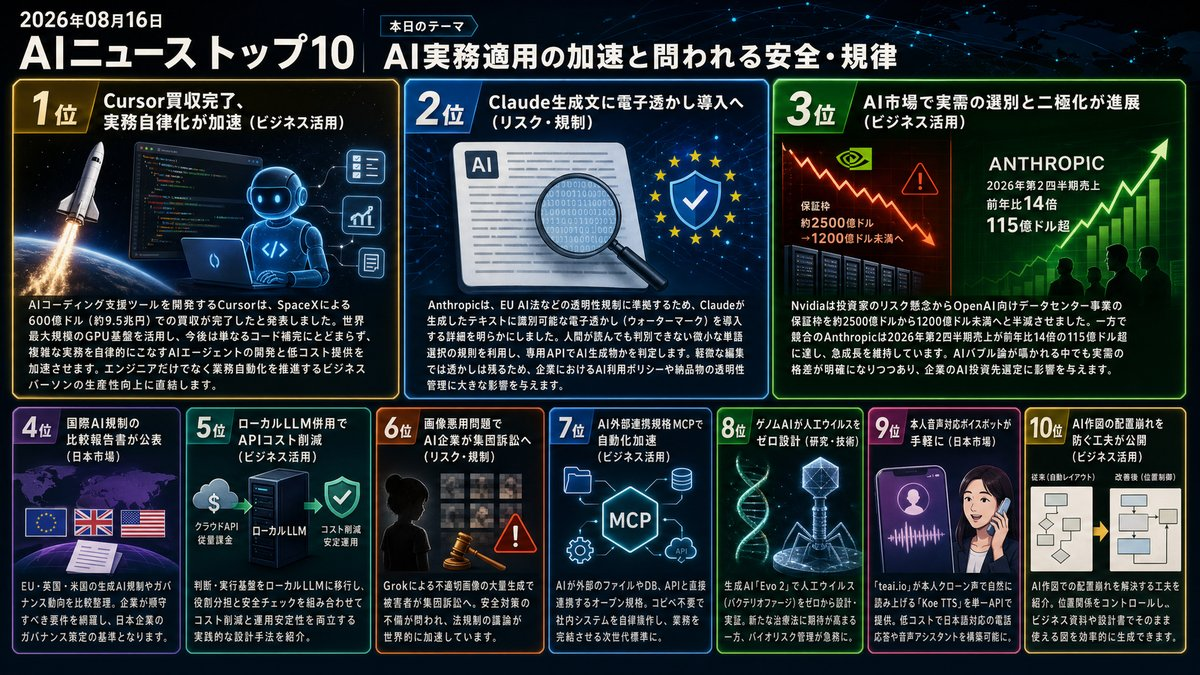
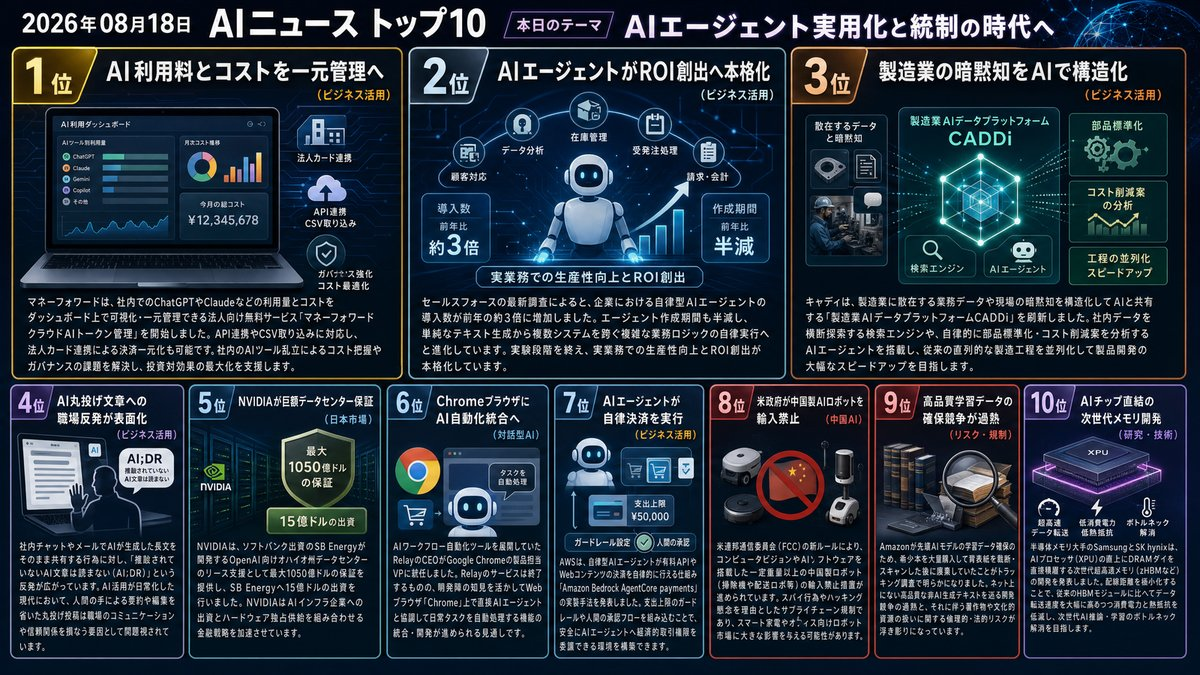
Morning Brief delivered [skip ci]

diff --git a/docs/index.html b/docs/index.html
@@ -12,16 +12,16 @@
     <!-- OGP_START -->
 <meta property="og:type" content="website">
 <meta property="og:site_name" content="AI ニュース TOP10">
-<meta property="og:title" content="AIの現場実装と安全運用の具体化 | AI ニュース TOP10">
-<meta property="og:description" content="業務定着へ向け運用の安全性と費用対効果の精査が進む 本日のトップ: ChatGPTがPC操作を記憶し定型業務を自動化">
+<meta property="og:title" content="AIエージェント実用化と統制の時代へ | AI ニュース TOP10">
+<meta property="og:description" content="業務定着が進む今、コスト管理とコミュニケーションの質が問われます。 本日のトップ: AI利用料とコストを一元管理へ">
 <meta property="og:image" content="https://tadfuji.github.io/ai-news-bot/ogp_latest.jpg">
 <meta property="og:url" content="https://tadfuji.github.io/ai-news-bot/">
 <meta name="twitter:card" content="summary_large_image">
-<meta name="twitter:title" content="AIの現場実装と安全運用の具体化 | AI ニュース TOP10">
-<meta name="twitter:description" content="業務定着へ向け運用の安全性と費用対効果の精査が進む">
+<meta name="twitter:title" content="AIエージェント実用化と統制の時代へ | AI ニュース TOP10">
+<meta name="twitter:description" content="業務定着が進む今、コスト管理とコミュニケーションの質が問われます。">
 <meta name="twitter:image" content="https://tadfuji.github.io/ai-news-bot/ogp_latest.jpg">
-<meta name="description" content="業務定着へ向け運用の安全性と費用対効果の精査が進む 世界のAIニュースを毎朝日本語で厳選してお届け。">
-<script type="application/ld+json">{"@context": "https://schema.org", "@type": "ItemList", "name": "AI ニュース TOP10 — AIの現場実装と安全運用の具体化", "itemListElement": [{"@type": "ListItem", "position": 1, "name": "ChatGPT Mac版に操作履歴を追跡・自動化する「Computer History」機能が登場", "url": "https://www.theverge.com/ai-artificial-intelligence/980742/chatgpts-computer-history-tracks-your-clicks-and-keystrokes"}, {"@type": "ListItem", "position": 2, "name": "決済大手Stripe、複数AIモデル統合基盤「OpenRouter」を70億ドル超で買収へ", "url": "https://techcrunch.com/2026/08/16/stripe-will-reportedly-acquire-ai-gateway-startup-openrouter-for-7b/"}, {"@type": "ListItem", "position": 3, "name": "チャット常駐AIエージェントで他社情報漏洩を防ぐマルチテナント分離設計", "url": "https://zenn.dev/hach/articles/chat-agent-multi-tenant-isolation-design"}, {"@type": "ListItem", "position": 4, "name": "オープンソース「GenOffice」とRAGを活用した社内資料下書き自動生成の実践", "url": "https://zenn.dev/bathtimefish/articles/eb089fbe8434b0"}, {"@type": "ListItem", "position": 5, "name": "AI記事自動公開の落とし穴：もっともらしい捏造を防ぐ「機械検査＋人の目」設計", "url": "https://zenn.dev/my_agent_works/articles/ai-article-pipeline-human-gate"}, {"@type": "ListItem", "position": 6, "name": "Anthropicの電子透かし導入直後に除去OSSが登場：AI識別技術を巡る攻防", "url": "https://www.techno-edge.net/article/2026/08/17/5398.html"}, {"@type": "ListItem", "position": 7, "name": "OpenAIが安全性検証チーム「Preparedness」を解散、IPO前の組織再編", "url": "https://www.theverge.com/ai-artificial-intelligence/980817/openai-disbands-preparedness-team"}, {"@type": "ListItem", "position": 8, "name": "Claude、Codex、Qwenはどう発音する？ビジネスで役立つAI用語読み方ガイド", "url": "https://atmarkit.itmedia.co.jp/ait/articles/2608/17/news020.html"}, {"@type": "ListItem", "position": 9, "name": "日々の断片的なメモを体系化する「自分専用エージェント秘書」の構築法", "url": "https://zenn.dev/nhandsome/articles/my-agent-assistant-03-knowledge-graph"}, {"@type": "ListItem", "position": 10, "name": "日本語OCR 7種実測比較：大規模モデルが必ずしも高精度とは限らない実態", "url": "https://zenn.dev/ocrjp/articles/c8ccf7c1c4ee82"}]}</script>
+<meta name="description" content="業務定着が進む今、コスト管理とコミュニケーションの質が問われます。 世界のAIニュースを毎朝日本語で厳選してお届け。">
+<script type="application/ld+json">{"@context": "https://schema.org", "@type": "ItemList", "name": "AI ニュース TOP10 — AIエージェント実用化と統制の時代へ", "itemListElement": [{"@type": "ListItem", "position": 1, "name": "マネーフォワード、ChatGPTやClaudeの利用量とコストを一元管理する無料サービスを提供開始", "url": "https://www.itmedia.co.jp/aiplus/article/2608/18/2000000571/"}, {"@type": "ListItem", "position": 2, "name": "企業のAIエージェント導入数が1年で3倍に急増、具体的なROI創出フェーズへ移行", "url": "https://www.zdnet.com/article/ai-agent-adoption-tripled-measurable-roi/"}, {"@type": "ListItem", "position": 3, "name": "キャディ、製造業の暗黙知を構造化し工程を並列化する次世代AIプラットフォームを発表", "url": "https://monoist.itmedia.co.jp/mn/articles/2608/18/news045.html"}, {"@type": "ListItem", "position": 4, "name": "「AI;DR（AI生成だから読まない）」職場におけるAI丸投げ文章への反発が顕在化", "url": "https://www.rickmanelius.com/p/aidr-ai-didnt-read"}, {"@type": "ListItem", "position": 5, "name": "NVIDIA、ソフトバンク出資のOpenAI向け米データセンターに最大1050億ドルの巨額保証", "url": "https://www.scmp.com/tech/big-tech/article/3364341/nvidia-provide-us105-billion-guarantee-openais-ohio-data-centre?utm_source=rss_feed"}, {"@type": "ListItem", "position": 6, "name": "AI自動化スタートアップRelay創業者がGoogle Chromeチームへ、ブラウザのAI統合を加速", "url": "https://techcrunch.com/2026/08/17/ai-automation-startup-relay-shuts-down-staff-joins-googles-chrome-team/"}, {"@type": "ListItem", "position": 7, "name": "AWS、AIエージェントに自動決済機能を持たせるAmazon Bedrock新機能を解説", "url": "https://aws.amazon.com/blogs/machine-learning/build-openclaw-agents-that-transact-with-amazon-bedrock-agentcore-payments/"}, {"@type": "ListItem", "position": 8, "name": "米トランプ政権、カメラやAI搭載の中国製ロボット掃除機などを輸入禁止へ", "url": "https://www.gizmodo.jp/article/trumps-robot-vacuum-ban/"}, {"@type": "ListItem", "position": 9, "name": "AmazonがAI訓練のため希少本を大量購入し裁断スキャンして廃棄していた実態が判明", "url": "https://arstechnica.com/tech-policy/2026/08/hidden-airtag-reveals-amazon-is-trashing-rare-books-to-train-ai/"}, {"@type": "ListItem", "position": 10, "name": "SamsungとSK hynix、AIチップ直結の次世代超高速積層メモリ技術を開発中", "url": "https://pc.watch.impress.co.jp/docs/column/semicon/2133231.html"}]}</script>
 <!-- OGP_END -->
     <style>
         :root {
@@ -391,16 +391,16 @@
 
         <main id="news-container">
             <!-- PRERENDER_START -->
-<article class="news-card" data-category="対話型AI"><div style="display:flex;align-items:center;margin-bottom:5px;"><span class="news-rank">1</span><span class="news-category" data-category="対話型AI">対話型AI</span></div><div class="news-oneliner">💡 ChatGPTがPC操作を記憶し定型業務を自動化</div><h2 class="news-title">ChatGPT Mac版に操作履歴を追跡・自動化する「Computer History」機能が登場</h2><p class="news-summary">macOS向けのChatGPTデスクトップアプリに、クリックやキー入力を記録してユーザーの作業パターンを学習する新機能「Computer History」が追加されました。日常的な操作履歴をタイムライン化して作業再開や自動化提案に活用する一方、プライバシーや社内データ管理の新ルール策定が求められます。</p><div class="news-why">📌 なぜ重要？ 個人作業の自動化が飛躍的に進む一方で、業務履歴や機密データの漏洩リスク管理が企業全体で急務になります。</div><div class="news-action">👉 今日の行動：PC上での定型的な反復作業を1つリストアップしてみましょう。</div><div class="news-meta"><span class="news-source">📰 The Verge AI</span><span class="news-link"><a href="https://www.theverge.com/ai-artificial-intelligence/980742/chatgpts-computer-history-tracks-your-clicks-and-keystrokes" target="_blank" rel="noopener">→ 元記事を読む</a></span></div></article>
-<article class="news-card" data-category="ビジネス活用"><div style="display:flex;align-items:center;margin-bottom:5px;"><span class="news-rank">2</span><span class="news-category" data-category="ビジネス活用">ビジネス活用</span></div><div class="news-oneliner">💡 StripeがOpenRouter買収でAI基盤を強化</div><h2 class="news-title">決済大手Stripe、複数AIモデル統合基盤「OpenRouter」を70億ドル超で買収へ</h2><p class="news-summary">Stripeが400以上のAIモデルを用途に応じて切り替え利用できるAPIゲートウェイ「OpenRouter」を70億ドル超で買収合意に至ったと報じられました。Stripeの決済基盤との統合により、企業はベンダーロックインを避けながら最適なコストと性能でAIを自社システムへ組み込めるようになります。</p><div class="news-why">📌 なぜ重要？ 単一のAIプロバイダーに依存せず、コストと性能でモデルを使い分けるマルチモデル運用が今後のビジネス標準になります。</div><div class="news-action">👉 今日の行動：自社で利用しているAIサービスのAPI利用料金と依存度を確認してみましょう。</div><div class="news-meta"><span class="news-source">📰 TechCrunch AI</span><span class="news-link"><a href="https://techcrunch.com/2026/08/16/stripe-will-reportedly-acquire-ai-gateway-startup-openrouter-for-7b/" target="_blank" rel="noopener">→ 元記事を読む</a></span></div></article>
-<article class="news-card" data-category="リスク・規制"><div style="display:flex;align-items:center;margin-bottom:5px;"><span class="news-rank">3</span><span class="news-category" data-category="リスク・規制">リスク・規制</span></div><div class="news-oneliner">💡 チャット常駐AIの情報漏洩を防ぐ基盤設計</div><h2 class="news-title">チャット常駐AIエージェントで他社情報漏洩を防ぐマルチテナント分離設計</h2><p class="news-summary">SlackやTeamsなどのチャットに常駐するAIエージェントにおいて、プロンプト指示だけに頼らずデータ層（DB・ベクトル検索）で物理的に顧客データを分離する設計手法が解説されました。プロンプトによる指示だけでは情報漏洩を防げないため、堅牢なデータ分離アーキテクチャが必須とされています。</p><div class="news-why">📌 なぜ重要？ AIエージェントの社内導入やSaaS開発において、プロンプト防御の限界を理解しアーキテクチャで安全性を担保する視点が不可欠です。</div><div class="news-action">👉 今日の行動：社内で共有されているAIツールのアクセス権限設定を再確認してみましょう。</div><div class="news-meta"><span class="news-source">📰 Zenn LLM</span><span class="news-link"><a href="https://zenn.dev/hach/articles/chat-agent-multi-tenant-isolation-design" target="_blank" rel="noopener">→ 元記事を読む</a></span></div></article>
-<article class="news-card" data-category="ビジネス活用"><div style="display:flex;align-items:center;margin-bottom:5px;"><span class="news-rank">4</span><span class="news-category" data-category="ビジネス活用">ビジネス活用</span></div><div class="news-oneliner">💡 社内完結型AIで機密を守り資料作成を自動化</div><h2 class="news-title">オープンソース「GenOffice」とRAGを活用した社内資料下書き自動生成の実践</h2><p class="news-summary">商用利用可能なオープンソースのオフィスツール「GenOffice」と社内ナレッジ検索（RAG）を組み合わせ、機密データを外部クラウドに送信することなく過去資料をベースとした新規スライドや文書の下書きを自動作成する実践手法が公開されました。</p><div class="news-why">📌 なぜ重要？ 外部クラウドへのデータ送信制限がある組織でも、OSSと自社RAGを活用して安全に業務効率化を推進できる道筋を示しています。</div><div class="news-action">👉 今日の行動：過去に作成した提案書や報告書のフォーマットをフォルダに整理してみましょう。</div><div class="news-meta"><span class="news-source">📰 Zenn LLM</span><span class="news-link"><a href="https://zenn.dev/bathtimefish/articles/eb089fbe8434b0" target="_blank" rel="noopener">→ 元記事を読む</a></span></div></article>
-<article class="news-card" data-category="リスク・規制"><div style="display:flex;align-items:center;margin-bottom:5px;"><span class="news-rank">5</span><span class="news-category" data-category="リスク・規制">リスク・規制</span></div><div class="news-oneliner">💡 AI自動公開の捏造を防ぐ人間レビュー設計</div><h2 class="news-title">AI記事自動公開の落とし穴：もっともらしい捏造を防ぐ「機械検査＋人の目」設計</h2><p class="news-summary">開発ログから技術記事を自動生成・公開するフローにおいて、架空のログ等の捏造情報が構文チェックをすり抜けて公開された事例が報告されました。パターン捏造は機械で弾きつつ、最終公開直前に人間がレビュー・承認する3段階ステータス管理の重要性が提起されています。</p><div class="news-why">📌 なぜ重要？ 完全自動化による効率化の裏にあるハルシネーションリスクを認識し、適切なヒューマン・イン・ザ・ループの仕組みを設ける必要があります。</div><div class="news-action">👉 今日の行動：AIで生成した文書の最終確認プロセスに人の目が入っているか点検しましょう。</div><div class="news-meta"><span class="news-source">📰 Zenn LLM</span><span class="news-link"><a href="https://zenn.dev/my_agent_works/articles/ai-article-pipeline-human-gate" target="_blank" rel="noopener">→ 元記事を読む</a></span></div></article>
-<article class="news-card" data-category="リスク・規制"><div style="display:flex;align-items:center;margin-bottom:5px;"><span class="news-rank">6</span><span class="news-category" data-category="リスク・規制">リスク・規制</span></div><div class="news-oneliner">💡 AI透かし技術と除去ツールのいたちごっこ</div><h2 class="news-title">Anthropicの電子透かし導入直後に除去OSSが登場：AI識別技術を巡る攻防</h2><p class="news-summary">EU AI法準拠に向けてAnthropicがClaude生成テキストへの電子透かし埋め込みを発表した直後、これらを除去するオープンソースツールが公開されました。主要モデルの透かしを無力化すると主張しており、AI生成物の透明性確保と規制回避技術のいたちごっこが浮き彫りになっています。</p><div class="news-why">📌 なぜ重要？ AI生成物の識別規制が世界的に進む一方、技術的な完全防御は難しく、制度面と運用面の両輪での対策が求められます。</div><div class="news-action">👉 今日の行動：自社のAIコンテンツ利用ガイドラインに生成物明示ルールがあるか確認してみましょう。</div><div class="news-meta"><span class="news-source">📰 TechnoEdge</span><span class="news-link"><a href="https://www.techno-edge.net/article/2026/08/17/5398.html" target="_blank" rel="noopener">→ 元記事を読む</a></span></div></article>
-<article class="news-card" data-category="リスク・規制"><div style="display:flex;align-items:center;margin-bottom:5px;"><span class="news-rank">7</span><span class="news-category" data-category="リスク・規制">リスク・規制</span></div><div class="news-oneliner">💡 OpenAIが安全検証専門チームを解散</div><h2 class="news-title">OpenAIが安全性検証チーム「Preparedness」を解散、IPO前の組織再編</h2><p class="news-summary">OpenAIがサイバー攻撃や生物兵器転用など深刻なリスクを評価する専門組織「Preparedness」チームを解散し、既存チームへ責任を分散しました。商業化やIPOに向けた動きが加速する中、安全対策の優先度に対する懸念が業界内で議論されています。</p><div class="news-why">📌 なぜ重要？ 主要AIベンダーの商業化シフトに伴い、企業側でも外部モデルの安全性やガバナンスを独自に評価する姿勢が重要になります。</div><div class="news-action">👉 今日の行動：利用中のAIサービスの利用規約やセキュリティポリシーの更新履歴をチェックしましょう。</div><div class="news-meta"><span class="news-source">📰 The Verge AI</span><span class="news-link"><a href="https://www.theverge.com/ai-artificial-intelligence/980817/openai-disbands-preparedness-team" target="_blank" rel="noopener">→ 元記事を読む</a></span></div></article>
-<article class="news-card" data-category="日本市場"><div style="display:flex;align-items:center;margin-bottom:5px;"><span class="news-rank">8</span><span class="news-category" data-category="日本市場">日本市場</span></div><div class="news-oneliner">💡 商談や会議で迷わないAI用語の正しい読み方</div><h2 class="news-title">Claude、Codex、Qwenはどう発音する？ビジネスで役立つAI用語読み方ガイド</h2><p class="news-summary">「Claude（クロード）」「Qwen（クウェン）」「Cursor（カーソル）」「Manus（マナス）」など、ビジネス現場で頻出するAI関連の固有名詞やツールの正しい読み方を公式情報と国内定着度をもとに解説しています。</p><div class="news-why">📌 なぜ重要？ 取引先やチームとの共通言語を正しく把握することで、AI関連の商談やコミュニケーションを円滑に進められます。</div><div class="news-action">👉 今日の行動：普段読みに迷っていたAIツールの名称を声に出して確認してみましょう。</div><div class="news-meta"><span class="news-source">📰 ITmedia AI+</span><span class="news-link"><a href="https://atmarkit.itmedia.co.jp/ait/articles/2608/17/news020.html" target="_blank" rel="noopener">→ 元記事を読む</a></span></div></article>
-<article class="news-card" data-category="中国AI"><div style="display:flex;align-items:center;margin-bottom:5px;"><span class="news-rank">9</span><span class="news-category" data-category="中国AI">中国AI</span></div><div class="news-oneliner">💡 Qwen等のAIで私的メモを知識体系化</div><h2 class="news-title">日々の断片的なメモを体系化する「自分専用エージェント秘書」の構築法</h2><p class="news-summary">個人のメモや蓄積された断片情報を、QwenやClaudeなどの複数モデルを活用してナレッジグラフ化し、外部検索に頼らず個人の一次情報のみを根拠に思考の整理や意思決定を支援するパーソナル秘書システムの設計手法が紹介されました。</p><div class="news-why">📌 なぜ重要？ 散在する日々の個人ログを自律型AIで整理・構造化し、意思決定の質を高めるパーソナルナレッジ基盤の実用例です。</div><div class="news-action">👉 今日の行動：今日取った断片的なメモを1つのドキュメントにまとめてみましょう。</div><div class="news-meta"><span class="news-source">📰 Zenn LLM</span><span class="news-link"><a href="https://zenn.dev/nhandsome/articles/my-agent-assistant-03-knowledge-graph" target="_blank" rel="noopener">→ 元記事を読む</a></span></div></article>
-<article class="news-card" data-category="日本市場"><div style="display:flex;align-items:center;margin-bottom:5px;"><span class="news-rank">10</span><span class="news-category" data-category="日本市場">日本市場</span></div><div class="news-oneliner">💡 日本語OCRは適材適所、最新AIが最高とは限らず</div><h2 class="news-title">日本語OCR 7種実測比較：大規模モデルが必ずしも高精度とは限らない実態</h2><p class="news-summary">ローカルOCR（PaddleOCR等）と最新LLMを日本語シナリオで実測比較した結果、コストの高い大規模モデルが常に優位とは限らず、縦書き文書では軽量ローカルOCRが最新AIを上回るなど、用途に応じた適材適所の選定が重要であることが示されました。</p><div class="news-why">📌 なぜ重要？ 高価な最新AIを盲信するのではなく、業務要件に合わせた低コスト・高精度なツールの目利きが投資対効果を高めます。</div><div class="news-action">👉 今日の行動：業務で扱う書類に縦書きや特殊なフォーマットが多いか確認してみましょう。</div><div class="news-meta"><span class="news-source">📰 Zenn LLM</span><span class="news-link"><a href="https://zenn.dev/ocrjp/articles/c8ccf7c1c4ee82" target="_blank" rel="noopener">→ 元記事を読む</a></span></div></article>
+<article class="news-card" data-category="ビジネス活用"><div style="display:flex;align-items:center;margin-bottom:5px;"><span class="news-rank">1</span><span class="news-category" data-category="ビジネス活用">ビジネス活用</span></div><div class="news-oneliner">💡 AI利用料とコストを一元管理へ</div><h2 class="news-title">マネーフォワード、ChatGPTやClaudeの利用量とコストを一元管理する無料サービスを提供開始</h2><p class="news-summary">マネーフォワードは、社内でのChatGPTやClaudeなどの利用量とコストをダッシュボード上で可視化・一元管理できる法人向け無料サービス「マネーフォワード クラウドAIトークン管理」を開始しました。API連携やCSV取り込みに対応し、法人カード連携による決済一元化も可能です。社内のAIツール乱立によるコスト把握やガバナンスの課題を解決し、投資対効果の最大化を支援します。</p><div class="news-why">📌 なぜ重要？ AIツールの社内乱立によるコスト増を防ぎ、ROIを可視化するためのガバナンス構築が急務となっています。</div><div class="news-action">👉 今日の行動：社内で契約中のAIツール一覧と月額費用を把握してみましょう。</div><div class="news-meta"><span class="news-source">📰 ITmedia AI十</span><span class="news-link"><a href="https://www.itmedia.co.jp/aiplus/article/2608/18/2000000571/" target="_blank" rel="noopener">→ 元記事を読む</a></span></div></article>
+<article class="news-card" data-category="ビジネス活用"><div style="display:flex;align-items:center;margin-bottom:5px;"><span class="news-rank">2</span><span class="news-category" data-category="ビジネス活用">ビジネス活用</span></div><div class="news-oneliner">💡 AIエージェントがROI創出へ本格化</div><h2 class="news-title">企業のAIエージェント導入数が1年で3倍に急増、具体的なROI創出フェーズへ移行</h2><p class="news-summary">セールスフォースの最新調査によると、企業における自律型AIエージェントの導入数が前年の約3倍に増加しました。エージェント作成期間も半減し、単純なテキスト生成から複数システムを跨ぐ複雑な業務ロジックの自律実行へと進化しています。実験段階を終え、実業務での生産性向上とROI創出が本格化しています。</p><div class="news-why">📌 なぜ重要？ 単なるテキスト生成を超え、複数システムを跨ぐ自律的な業務実行が企業の競争力を左右する段階に入りました。</div><div class="news-action">👉 今日の行動：自チームで自動化できそうな複数ステップの定型業務を書き出してみましょう。</div><div class="news-meta"><span class="news-source">📰 ZDNet AI</span><span class="news-link"><a href="https://www.zdnet.com/article/ai-agent-adoption-tripled-measurable-roi/" target="_blank" rel="noopener">→ 元記事を読む</a></span></div></article>
+<article class="news-card" data-category="ビジネス活用"><div style="display:flex;align-items:center;margin-bottom:5px;"><span class="news-rank">3</span><span class="news-category" data-category="ビジネス活用">ビジネス活用</span></div><div class="news-oneliner">💡 製造業の暗黙知をAIで構造化</div><h2 class="news-title">キャディ、製造業の暗黙知を構造化し工程を並列化する次世代AIプラットフォームを発表</h2><p class="news-summary">キャディは、製造業に散在する業務データや現場の暗黙知を構造化してAIと共有する「製造業AIデータプラットフォームCADDi」を刷新しました。社内データを横断探索する検索エンジンや、自律的に部品標準化・コスト削減案を分析するAIエージェントを搭載し、従来の直列的な製造工程を並列化して製品開発の大幅なスピードアップを目指します。</p><div class="news-why">📌 なぜ重要？ 現場の属人的なノウハウをデータ化し、開発工程を並列化することで製品開発スピードの大幅な向上が期待されます。</div><div class="news-action">👉 今日の行動：社内に散在している属人的な業務マニュアルを1つデジタル共有化してみましょう。</div><div class="news-meta"><span class="news-source">📰 ITmedia AI十</span><span class="news-link"><a href="https://monoist.itmedia.co.jp/mn/articles/2608/18/news045.html" target="_blank" rel="noopener">→ 元記事を読む</a></span></div></article>
+<article class="news-card" data-category="ビジネス活用"><div style="display:flex;align-items:center;margin-bottom:5px;"><span class="news-rank">4</span><span class="news-category" data-category="ビジネス活用">ビジネス活用</span></div><div class="news-oneliner">💡 AI丸投げ文章への職場反発が表面化</div><h2 class="news-title">「AI;DR（AI生成だから読まない）」職場におけるAI丸投げ文章への反発が顕在化</h2><p class="news-summary">社内チャットやメールでAIが生成した長文をそのまま共有する行為に対し、「推敲されていないAI文章は読まない（AI;DR）」という反発が広がっています。AI活用が日常化した現代において、人間の手による要約や編集を省いた丸投げ投稿は職場のコミュニケーションや信頼関係を損なう要因として問題視されています。</p><div class="news-why">📌 なぜ重要？ AI生成文を推敲せず共有すると信頼低下を招くため、人間の意図を加える編集力がこれまで以上に重要です。</div><div class="news-action">👉 今日の行動：AIが生成した文章を送信する前に要約や自分の意見を1行加えてみましょう。</div><div class="news-meta"><span class="news-source">📰 Hacker News AI</span><span class="news-link"><a href="https://www.rickmanelius.com/p/aidr-ai-didnt-read" target="_blank" rel="noopener">→ 元記事を読む</a></span></div></article>
+<article class="news-card" data-category="日本市場"><div style="display:flex;align-items:center;margin-bottom:5px;"><span class="news-rank">5</span><span class="news-category" data-category="日本市場">日本市場</span></div><div class="news-oneliner">💡 NVIDIAが巨額データセンター保証</div><h2 class="news-title">NVIDIA、ソフトバンク出資のOpenAI向け米データセンターに最大1050億ドルの巨額保証</h2><p class="news-summary">NVIDIAは、ソフトバンク出資のSB Energyが開発するOpenAI向けオハイオ州データセンターのリース支援として最大1050億ドルの保証を提供し、SB Energyへ15億ドルの出資を行いました。NVIDIAはAIインフラ企業への出資とハードウェア独占供給を組み合わせる金融戦略を加速させています。</p><div class="news-why">📌 なぜ重要？ ハードウェア供給と巨額金融保証を組み合わせた巨大テックのAIインフラ覇権争いが一段と加速しています。</div><div class="news-action">👉 今日の行動：自社のクラウド・AI基盤利用におけるインフラコスト動向を確認してみましょう。</div><div class="news-meta"><span class="news-source">📰 SCMP Technology</span><span class="news-link"><a href="https://www.scmp.com/tech/big-tech/article/3364341/nvidia-provide-us105-billion-guarantee-openais-ohio-data-centre?utm_source=rss_feed" target="_blank" rel="noopener">→ 元記事を読む</a></span></div></article>
+<article class="news-card" data-category="対話型AI"><div style="display:flex;align-items:center;margin-bottom:5px;"><span class="news-rank">6</span><span class="news-category" data-category="対話型AI">対話型AI</span></div><div class="news-oneliner">💡 ChromeブラウザにAI自動化統合へ</div><h2 class="news-title">AI自動化スタートアップRelay創業者がGoogle Chromeチームへ、ブラウザのAI統合を加速</h2><p class="news-summary">AIワークフロー自動化ツールを展開していたRelayのCEOがGoogle Chromeの製品担当VPに就任しました。Relayのサービスは終了するものの、開発陣の知見を活かしてWebブラウザ「Chrome」上で直接AIエージェントと協調して日常タスクを自動処理する機能の統合・開発が進められる見通しです。</p><div class="news-why">📌 なぜ重要？ 日常的に利用するブラウザ上で直接AIエージェントがタスクを代行する世界が目前に迫っています。</div><div class="news-action">👉 今日の行動：普段ブラウザで行っている反復的な検索や転記作業の手順を整理してみましょう。</div><div class="news-meta"><span class="news-source">📰 TechCrunch AI</span><span class="news-link"><a href="https://techcrunch.com/2026/08/17/ai-automation-startup-relay-shuts-down-staff-joins-googles-chrome-team/" target="_blank" rel="noopener">→ 元記事を読む</a></span></div></article>
+<article class="news-card" data-category="ビジネス活用"><div style="display:flex;align-items:center;margin-bottom:5px;"><span class="news-rank">7</span><span class="news-category" data-category="ビジネス活用">ビジネス活用</span></div><div class="news-oneliner">💡 AIエージェントが自律決済を実行</div><h2 class="news-title">AWS、AIエージェントに自動決済機能を持たせるAmazon Bedrock新機能を解説</h2><p class="news-summary">AWSは、自律型AIエージェントが有料APIやWebコンテンツの決済を自律的に行える仕組み「Amazon Bedrock AgentCore payments」の実装手法を発表しました。支出上限のガードレールや人間の承認フローを組み込むことで、安全にAIエージェントへ経済的取引権限を委譲できる環境を構築できます。</p><div class="news-why">📌 なぜ重要？ AIが自律的にAPIや情報購入を行えるようになり、新たなビジネス自動化の可能性が拓けます。</div><div class="news-action">👉 今日の行動：AIに権限委譲できる小額決済や承認フローの基準を考えてみましょう。</div><div class="news-meta"><span class="news-source">📰 AWS Machine Learning</span><span class="news-link"><a href="https://aws.amazon.com/blogs/machine-learning/build-openclaw-agents-that-transact-with-amazon-bedrock-agentcore-payments/" target="_blank" rel="noopener">→ 元記事を読む</a></span></div></article>
+<article class="news-card" data-category="中国AI"><div style="display:flex;align-items:center;margin-bottom:5px;"><span class="news-rank">8</span><span class="news-category" data-category="中国AI">中国AI</span></div><div class="news-oneliner">💡 米政府が中国製AIロボットを輸入禁止</div><h2 class="news-title">米トランプ政権、カメラやAI搭載の中国製ロボット掃除機などを輸入禁止へ</h2><p class="news-summary">米連邦通信委員会（FCC）の新ルールにより、コンピュータビジョンやAIソフトウェアを搭載した一定重量以上の中国製ロボット（掃除機や配送ロボ等）の輸入禁止措置が進められています。スパイ行為やハッキング懸念を理由としたサプライチェーン規制であり、スマート家電やオフィス向けロボット市場に大きな影響を与える可能性があります。</p><div class="news-why">📌 なぜ重要？ ハードウェアに組み込まれたAIやセンサーに対する地政学的規制がサプライチェーンに直結しています。</div><div class="news-action">👉 今日の行動：オフィスのIoT機器やスマート家電の調達元とセキュリティ設定を点検しましょう。</div><div class="news-meta"><span class="news-source">📰 Gizmodo Japan</span><span class="news-link"><a href="https://www.gizmodo.jp/article/trumps-robot-vacuum-ban/" target="_blank" rel="noopener">→ 元記事を読む</a></span></div></article>
+<article class="news-card" data-category="リスク・規制"><div style="display:flex;align-items:center;margin-bottom:5px;"><span class="news-rank">9</span><span class="news-category" data-category="リスク・規制">リスク・規制</span></div><div class="news-oneliner">💡 高品質学習データの確保競争が過熱</div><h2 class="news-title">AmazonがAI訓練のため希少本を大量購入し裁断スキャンして廃棄していた実態が判明</h2><p class="news-summary">Amazonが先端AIモデルの学習データ確保のため、希少本を大量購入して背表紙を裁断・スキャンした後に廃棄していたことがトラッキング調査で明らかになりました。ネット上にない高品質な非AI生成テキストを巡る開発競争の過熱と、それに伴う著作物や文化的資源の扱いに関する倫理的・法的リスクが浮き彫りになっています。</p><div class="news-why">📌 なぜ重要？ Web上のデータ枯渇により非公開テキストの価値が急騰し、企業のデータ倫理や著作権管理が問われています。</div><div class="news-action">👉 今日の行動：自社データのAI学習利用に関する利用規約やポリシーを確認してみましょう。</div><div class="news-meta"><span class="news-source">📰 Hacker News AI</span><span class="news-link"><a href="https://arstechnica.com/tech-policy/2026/08/hidden-airtag-reveals-amazon-is-trashing-rare-books-to-train-ai/" target="_blank" rel="noopener">→ 元記事を読む</a></span></div></article>
+<article class="news-card" data-category="研究・技術"><div style="display:flex;align-items:center;margin-bottom:5px;"><span class="news-rank">10</span><span class="news-category" data-category="研究・技術">研究・技術</span></div><div class="news-oneliner">💡 AIチップ直結の次世代メモリ開発</div><h2 class="news-title">SamsungとSK hynix、AIチップ直結の次世代超高速積層メモリ技術を開発中</h2><p class="news-summary">半導体メモリ大手のSamsungとSK hynixは、AIプロセッサ（XPU）の直上にDRAMダイを直接積層する次世代超高速メモリ（zHBMなど）の開発を発表しました。配線距離を極小化することで、従来のHBMモジュールに比べてデータ転送速度を大幅に高めつつ消費電力と熱抵抗を低減し、次世代AI推論・学習のボトルネック解消を目指します。</p><div class="news-why">📌 なぜ重要？ メモリ帯域のボトルネック解消により、将来的なAI推論の大幅な高速化と低消費電力化が期待されます。</div><div class="news-action">👉 今日の行動：ハードウェアの進化が将来的な自社のAI導入コストに与える影響を注視しましょう。</div><div class="news-meta"><span class="news-source">📰 PC Watch</span><span class="news-link"><a href="https://pc.watch.impress.co.jp/docs/column/semicon/2133231.html" target="_blank" rel="noopener">→ 元記事を読む</a></span></div></article>
 <!-- PRERENDER_END -->
         </main>
 
